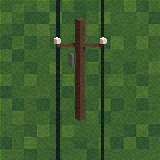
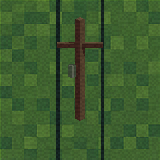
fix(studio): unmush the hydro pole junction
Pixel measurement showed the wires were already at the crossarm rows —
the problem was legibility, not alignment: arm ink, sub-cell insulator
ink, both wires, and the transformer can all merged into one dark blob
at the junction. Fixes: the crossarm is thickened (0.14 world) so its
wood core shows between outlines like the pole's; the insulator nubs
are cut (sub-cell at this grid, pure ink); and the transformer moves
down the pole (z 1.30) clear of the wire bundle. The attachment now
reads: two wires meeting a wooden arm, fanning apart toward the edges.

Changed region(s): [[0.3125, 0.2188, 0.5, 0.5], [0.5, 0.2188, 0.6875, 0.3438]]

diff --git a/studio/scenes/pole.py b/studio/scenes/pole.py
@@ -25,13 +25,12 @@ def build(mats):
     # ink outlines. Wood role — shaded two-tone by the studio sun.
     box(mats, 'tie', (0, 0, 1.35), (0.17, 0.17, 2.7))
     # Single crossarm, oriented perpendicular to the camera azimuth so it
-    # reads horizontal. Both wires hang from its two ends — its height
-    # projects to the wire anchor line (0.894*z - overlay offset: z 2.0 ->
-    # +0.79). Porcelain insulators (trim) mark the attachment points.
-    box(mats, 'tie', (0, 0, 2.0), (1.15, 0.09, 0.08), (0, 0, math.radians(135)))
-    for side in (1, -1):
-        tip = 0.575 * side
-        box(mats, 'trim', (tip * -0.707, tip * 0.707, 2.11), (0.12, 0.12, 0.13))
-    # Transformer can hanging right of the pole below the arm (grey).
+    # reads horizontal, thick enough (0.14 ~ 1.7 art cells) that its wood
+    # core shows between the ink outlines like the pole's does. Both wires
+    # hang from its two ends. (Insulator nubs were tried and cut: sub-cell
+    # at this grid, they just added ink and mushed the junction.)
+    box(mats, 'tie', (0, 0, 2.0), (1.15, 0.14, 0.11), (0, 0, math.radians(135)))
+    # Transformer can on the pole, well below the arm so it stays clear of
+    # the wire bundle (grey).
     stub = 0.20
-    box(mats, 'step', (stub * 0.707, -stub * 0.707, 1.62), (0.14, 0.14, 0.32))
+    box(mats, 'step', (stub * 0.707, -stub * 0.707, 1.30), (0.14, 0.14, 0.32))
